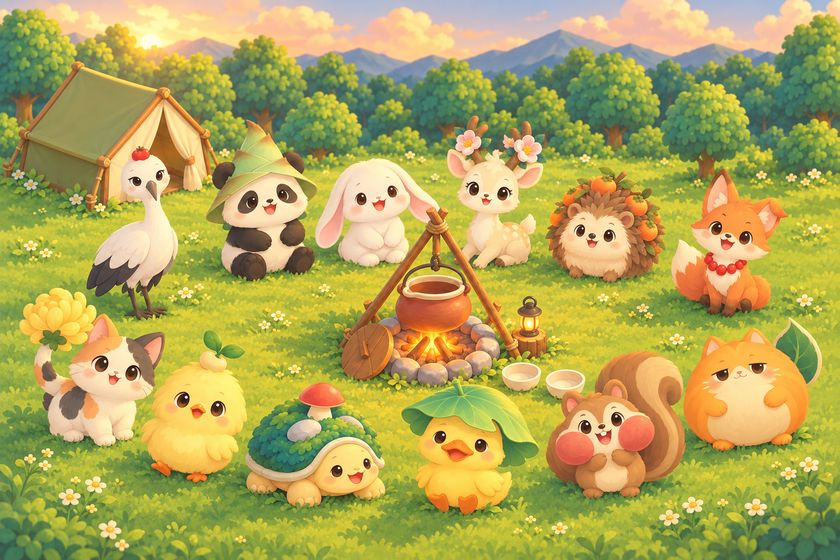
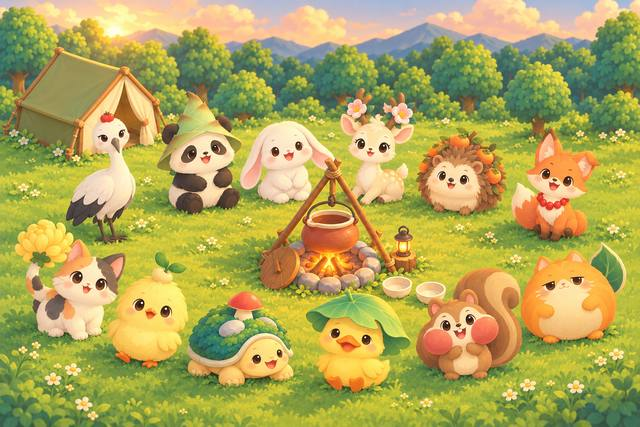
Slim the package: smaller fallback backdrops, drop unused effect images, size budget
The main package measured 1836KB of WeChat's 2048KB. Now 1498KB (550KB spare):
- the three whole-world fallback backdrops go from 768 to 576 wide (they only
  show until the cloud tiles arrive), the fire-off patches follow
- family portrait 840 -> 640 wide
- eight effect images nobody referenced are removed
- generator scripts write the new sizes, so regenerating art keeps them small
- preview / upload print the size WeChat measured and warn under 400KB spare
- the size test budgets 1.8MB of raw files, and a new test catches unused UI art

Claude-Session: https://claude.ai/code/session_01CX9A8LkVQKcNnTEsxo35Fv

diff --git a/scripts/wechat.js b/scripts/wechat.js
@@ -206,11 +206,29 @@ async function main() {
 
   const setting = { es6: true, enhance: true, minify: true, minifyWXSS: true, minifyWXML: true }
 
+  // 微信算的包有多大（主包和每个分包各不能超过 2MB）：预览、上传完都报一下，离上限多远心里有数
+  const LIMIT = 2 * 1024 * 1024
+const WARN = 400 * 1024
+  const kb = (n) => `${(n / 1024).toFixed(0)}KB`
+  // 微信算的包大小（压缩过的，比文件加起来小一截）。没有分包时只有 __FULL__，它就是主包
+  const reportSize = (res) => {
+    const list = (res && res.subPackageInfo) || []
+    if (!list.length) return
+    const split = list.some((p) => p.name === '__APP__')
+    const name = (n) => (n === '__APP__' ? '主包' : n === '__FULL__' ? (split ? '整个小程序' : '主包（没有分包）') : `分包 ${n}`)
+    list.forEach((p) => {
+      const left = LIMIT - p.size
+      const limited = p.name !== '__FULL__' || !split
+      const note = limited ? `，离 2MB 上限还有 ${kb(left)}${left < WARN ? `  ⚠ 余量不到 ${kb(WARN)}，该瘦身了` : ''}` : ''
+      console.log(`  ${name(p.name)}：${kb(p.size)}${note}`)
+    })
+  }
+
   if (command === 'preview') {
     fs.mkdirSync(OUT_DIR, { recursive: true })
     const dest = path.join(OUT_DIR, 'preview-qrcode.jpg')
     const [pagePath, searchQuery] = args
-    await ci.preview({
+    const res = await ci.preview({
       project,
       desc: lastCommitSubject() || 'preview',
       setting,
@@ -221,13 +239,15 @@ async function main() {
       ...(searchQuery ? { searchQuery } : {}),
     })
     console.log(`✓ 预览二维码已生成：${dest}${pagePath ? `（打开到 ${pagePath}${searchQuery ? `?${searchQuery}` : ''}）` : ''}`)
+    reportSize(res)
     return
   }
 
   const version = args[0] || require(path.join(ROOT, 'package.json')).version
   const desc = args[1] || lastCommitSubject() || `v${version}`
-  await ci.upload({ project, version, desc, setting, robot: ROBOT })
+  const res = await ci.upload({ project, version, desc, setting, robot: ROBOT })
   console.log(`✓ 已上传开发版本 ${version}（ci 机器人 ${ROBOT}）：${desc}`)
+  reportSize(res)
   console.log('  第一次上传后，到小程序后台「版本管理」把它选为体验版')
 }
 

diff --git a/scripts/camp/fire_off.py b/scripts/camp/fire_off.py
@@ -11,7 +11,7 @@
 输出：
     art/cut/fire-off.jpg、night-fire-off.jpg       盖在底图上的补丁，随 npm run wx:art -- cut 上传。框外圈和原画一模一样、框落在底图切块的像素格上，
                                                    所以存成不透明的 JPG 盖上去也没有接缝（和篝火逐帧图一样）；框的位置填进 shared/camp.js 的 SCENE.flame.off
-    miniprogram/images/camp/cut/fire-off.jpg …      包里的兜底小图（和包里垫的整张低清画一样 768 宽的分辨率）
+    miniprogram/images/camp/cut/fire-off.jpg …      包里的兜底小图（和包里垫的整张低清画一样 576 宽的分辨率）
 别的脚本要熄了火的整张画就调 unlit_day() / unlit_night()：cutouts.py 出空锅 pot-0 和夜里的 night-lid-off，
 light_map.py 出熄了火时宠物身上的光。
 画换了：重新量 LOGS（--preview 会把量的木柴框画在画上对），这几个脚本都重跑。
@@ -37,7 +37,7 @@ OUT = os.path.join(REPO, 'art', 'cut')
 LOCAL = os.path.join(REPO, 'miniprogram', 'images', 'camp', 'cut')
 DAY_RES = 0.75          # 和日景底图切块一样（3072 宽）
 NIGHT_RES = 0.5         # 和夜景底图切块一样（2048 宽）
-LOCAL_RES = 0.1875      # 包里的兜底小图：和包里垫的整张低清画（768 宽）一样
+LOCAL_RES = 0.140625    # 包里的兜底小图：和包里垫的整张低清画（576 宽）一样
 
 # 火堆里的木柴（画的像素）：(柴头 x, y, 里头那端 x, y, 柴头半径, 里头半径)，从后往前排（后面的先画）
 LOGS = {
@@ -390,7 +390,7 @@ def patches(preview=None):
         path = os.path.join(OUT, f'{name}.jpg')
         piece.save(path, quality=90)
         small = piece.resize((round(piece.width * LOCAL_RES / res), round(piece.height * LOCAL_RES / res)), Image.LANCZOS)
-        small.save(os.path.join(LOCAL, f'{name}.jpg'), quality=82)
+        small.save(os.path.join(LOCAL, f'{name}.jpg'), quality=64, optimize=True)
         print(f'  ✓  {name}.jpg  {piece.width}×{piece.height}  {os.path.getsize(path) // 1024} KB（包里 {os.path.getsize(os.path.join(LOCAL, name + ".jpg")) // 1024} KB）')
     print('补丁的框（画的像素）→ shared/camp.js 的 SCENE.flame.off：', json.dumps({'day': boxes['fire-off'], 'night': boxes['night-fire-off']}))
     if preview:

diff --git a/scripts/camp/extend_art.py b/scripts/camp/extend_art.py
@@ -12,7 +12,7 @@
         长出圆鼓鼓的云顶；高处再飘几朵云；夜里是深蓝、几颗画上那种四角小星
 输出：
     art/camp/u{行}{列}.jpg、d{行}{列}.jpg（+ night-）   天空两行、草地两行，每行 4 块，和底图切块一起 npm run wx:art 传云存储（campArt）
-    miniprogram/images/camp/base/world.jpg、night-world.jpg   包里垫的整个世界（768 宽）：一打开就有，高清块下完盖在上面
+    miniprogram/images/camp/base/world.jpg、night-world.jpg   包里垫的整个世界（576 宽）：一打开就有，高清块下完盖在上面
 画换了重跑（在 cut_art.py 之后）。Codex 按工单第 1e 节画了天空（art/raw/camp/out-sky.png、out-night-sky.png）就用它的上半张当天空，
 紧挨着画顶那一小段还是从画顶一行接过来（接得上）。需要 Pillow 和 numpy。
 """
@@ -30,7 +30,7 @@ RAW = os.path.join(REPO, 'art', 'raw', 'camp')
 OUT = os.path.join(REPO, 'art', 'camp')
 LOCAL = os.path.join(REPO, 'miniprogram', 'images', 'camp', 'base')
 RES = {'': 0.75, 'night-': 0.5}   # 和底图切块一样：日景 3072 宽、夜景 2048 宽
-LOCAL_RES = 0.1875                # 包里垫的整个世界：768 宽
+LOCAL_RES = 0.140625              # 包里垫的整个世界：576 宽（只在高清块下完之前垫一下，别再调大：主包只有 2MB）
 TILE = 1024                       # 一块（画的像素）
 HAZE = 100                        # 画最下面发虚的那段：接缝要在它上面（草地从画里面 SCENE.frame.overlap 处盖上去）
 PATCH = 256                       # 草地小块（画的像素）
@@ -361,7 +361,7 @@ def build(preview=None):
         tiles(world, pfx, res, F, H)
         lo = Image.fromarray(np.uint8(np.clip(world, 0, 255))).resize((round(W * LOCAL_RES), round((H + F['top'] + F['bottom']) * LOCAL_RES)), Image.LANCZOS)
         path = os.path.join(LOCAL, f'{pfx}world.jpg')
-        lo.save(path, quality=74, optimize=True, progressive=True)
+        lo.save(path, quality=62, optimize=True, progressive=True)
         print(f'  ✓  包里垫的整个世界 {pfx}world.jpg {lo.width}×{lo.height}  {os.path.getsize(path) // 1024} KB')
     if preview:
         os.makedirs(preview, exist_ok=True)

diff --git a/scripts/camp/lit_night.py b/scripts/camp/lit_night.py
@@ -10,7 +10,7 @@
 整个世界一起做（天空 + 画 + 下面补的草地），从已经切好的日景、夜景块（art/camp/*.jpg，cut_art.py + extend_art.py 出的）拼回来算，
 所以先跑那两个。输出：
     art/camp/lit-t*.jpg（画，16 块）、lit-d*.jpg（下面的草地，8 块），和夜景同分辨率；天空和夜景一样，不另出
-    miniprogram/images/camp/base/lit-world.jpg   包里垫的整个世界（768 宽）
+    miniprogram/images/camp/base/lit-world.jpg   包里垫的整个世界（576 宽）
     art/lit/painting.png                           点火版的画（夜景分辨率），cutouts.py 从它抠点火版的帐篷 / 木盖 / 提灯
 接着：cutouts.py --from-base --local（会出 lit- 那套抠图）、cutouts.py --local、cutouts.py --local --night、light_map.py，
 ART_VERSION.base / cut 加一，npm run wx:art -- base cut。需要 Pillow 和 numpy。
@@ -29,7 +29,7 @@ LIT = os.path.join(REPO, 'art', 'lit')
 LOCAL = os.path.join(REPO, 'miniprogram', 'images', 'camp', 'base')
 RES = {'': 0.75, 'night-': 0.5}   # 日景块 3072 宽、夜景块 2048 宽（cut_art.py / extend_art.py）
 TILE = 1024
-LOCAL_RES = 0.1875
+LOCAL_RES = 0.140625    # 和 extend_art.py 一样：576 宽
 GLOW = (0, -120)                   # 光心：篝火往上一点（火苗和锅底）
 R, FLOOR, PEAK = 2200, 0.12, 0.92
 FLAT = 0.62
@@ -113,7 +113,7 @@ def main():
     print(f'  ✓  点火版的画 → art/lit/painting.png {painting.width}×{painting.height}')
     lo = img.resize((round(S['W'] * LOCAL_RES), round(img.height / res * LOCAL_RES)), Image.LANCZOS)
     path = os.path.join(LOCAL, 'lit-world.jpg')
-    lo.save(path, quality=74, optimize=True, progressive=True)
+    lo.save(path, quality=62, optimize=True, progressive=True)
     print(f'  ✓  包里垫的整个世界 lit-world.jpg {lo.width}×{lo.height}  {os.path.getsize(path) // 1024} KB')
     if a.preview:
         os.makedirs(a.preview, exist_ok=True)

diff --git a/scripts/camp/pet_art.py b/scripts/camp/pet_art.py
@@ -17,7 +17,7 @@ RAW = os.path.join(REPO, 'art', 'raw', 'pets')
 OUT = os.path.join(REPO, 'miniprogram', 'images', 'camp', 'pets')
 FAMILY = os.path.join(REPO, 'art', 'raw', 'camp', 'family.png')
 PET_PX, FACE_PX = 320, 96
-FAMILY_W = 840      # 图册一页约 620rpx 宽，3 倍屏够清楚
+FAMILY_W = 640      # 图册一页约 620rpx 宽（2 倍屏正好；主包只有 2MB，别再调大）
 MARGIN = 0.04       # 人物四周留的空（边长的比例）
 
 
@@ -61,7 +61,7 @@ def main():
         img = Image.open(FAMILY).convert('RGB')
         img = img.resize((FAMILY_W, round(img.height * FAMILY_W / img.width)), Image.LANCZOS)
         path = os.path.join(OUT, '..', 'family.jpg')
-        img.save(path, quality=80, optimize=True, progressive=True)
+        img.save(path, quality=72, optimize=True, progressive=True)
         print(f'  ✓  全家福 family.jpg {img.width}×{img.height} {os.path.getsize(path) // 1024} KB')
 
 

diff --git a/scripts/camp/cut_art.py b/scripts/camp/cut_art.py
@@ -4,7 +4,7 @@
     python3 scripts/camp/cut_art.py art/raw/camp/night-hd.png --prefix night-     # 夜景：同样切 16 块，文件名 night-t00.jpg…
 
 输出到 art/camp/t00.jpg … t33.jpg（npm run wx:art 上传到 camp/base/）；画必须是正方形（和 shared/camp.js 的 W×H 一致），不是就按宽度缩放后上下居中裁 / 补边。
-切完接着跑 scripts/camp/extend_art.py：画的上下补天空和草地（高清块 u*/d*），并把整个世界缩成 768 宽写进包里
+切完接着跑 scripts/camp/extend_art.py：画的上下补天空和草地（高清块 u*/d*），并把整个世界缩成 576 宽写进包里
 miniprogram/images/camp/base/world.jpg（夜景 night-world.jpg）当垫图——页面先垫这张，高清块盖在上面。
 """
 import argparse

diff --git a/docs/art/camp-art-pack.md b/docs/art/camp-art-pack.md
@@ -635,10 +635,10 @@ in this order: … Cells 34–36 empty.
 - 营地：`cut_art.py art/raw/camp/camp-hd.png` 切 16 块 → `extend_art.py`（上下补天空和草地的 16 块 + 包里垫的整个世界 `world.jpg`；Codex 画了 `out-sky.png` 就用它的天空）→ `npm run wx:art` 传云存储 → `config.campArt`
 - 抠图层：画换了就 `cutouts.py --from-base --local`（精确轮廓，日夜一起出，`--check 目录` 存品红底的检查图；`SEEDS` 是物件身上的几个点，画换了要重量）→ `fx_art.py` 重出篝火逐帧 → `light_map.py` 重算夜里的光 → `scripts/wechat.js` 的 `ART_VERSION.cut` 加一 → `npm run wx:art -- cut` → `config.cutArt`。Codex 画了锅里三态就 `cutouts.py --crop` 之后 `cutouts.py`（不带 `--from-base`，日夜各跑一次，夜里加 `--night`）只换 pot-1～3：锅身用精确轮廓，锅口往上的热气按「比原画白了多少」反推成半透明白烟（不连背后的草一起抠）
 - 没点火：画换了或 Codex 画了 `out-fire-off.png` / `out-night-fire-off.png` 就 `fire_off.py`（出两块补丁，打印的框填进 `SCENE.flame.off`；Codex 的 in / out 是裁的时候的框外扩成的正方形，裁的框记在 `art/raw/cut/fire-off.json`，脚本只取回框里那块），再跑上一条的 `cutouts.py --from-base --local`、`light_map.py`（空锅、夜里的木盖、熄火时的光都从熄了火的画上来）
-- 底图：`extend_art.py` 把整个世界（含上下补的）缩成 768 宽写进包里（`images/camp/base/world.jpg`、`night-world.jpg`）当垫图
+- 底图：`extend_art.py` 把整个世界（含上下补的）缩成 576 宽写进包里（`images/camp/base/world.jpg`、`night-world.jpg`）当垫图
 - 装饰：`decor_crop.py --ids …` 先出 in（`boxes.json` 合并着写，别的批裁过的框留着）→ Codex 出 out（它可能把 in 放大到 1024 再画，脚本按 in 实际的宽换算）→ `decor_patch.py --local` → `scripts/wechat.js` 的 `ART_VERSION.decor`（重新生成过就加一）→ `npm run wx:art -- decor` → `config.decorArt`。`decor_patch.py` 只取 Codex 画了的地方（它别处一个像素都没动），再把它在装饰脚下顺手画的那圈草皮去掉、只留比原来暗的影子（草皮 = 颜色在原来那块草地里、在装饰下半截、从外面连进来的；花坛里被石头围住的叶子不算），所以摆到哪儿都落在那儿的草上、夜里没有一圈白天的草；画得太小的放大到占块宽 55% 或块高 70%（`FILL`）。最后重写 `utils/decor-art.js`（有高清块的装饰），页面只对这些用云端的图，还没画的用包里的占位
 - 第 5 批的花草：`decor_patch.py --local --ids sunflowers,lavender,hydrangea,tulips,daisies,cosmos,roses,dandelions,clover,rapeseed,chrysanthemum,mint,poppies,bluebells,mushrooms`（换掉包里的占位小图，重写 `utils/decor-art.js`，有了高清块的花就自动进商店）→ `ART_VERSION.decor` 加一 → `npm run wx:art -- decor` → `config.decorArt`；录屏 `play` 看小动物闻花。Codex 画了金色秋千：`cp art/raw/decor/in-swing.png art/raw/decor/in-gold_swing.png`、`boxes.json` 里照抄 swing 那条成 gold_swing → `decor_patch.py --local --ids gold_swing` → `swing_parts.py --preview 目录`（看座位那层抠得干不干净，金色秋千形状变了就重量 `SEAT`）
-- 宠物：`pack_anim.py` 把 A、B（有 `<id>-c.png` 的连 C）各自对齐后上下拼成一只一张 `art/anim/<id>.png`（6 列 × 12 / 18 行，每格 160px；`utils/anim-sheets.js` 里有 C 的记 `c: true`），页面换动作、转身只挪行不换图→ `scripts/wechat.js` 的 `ART_VERSION.anim` 加一 → `npm run wx:art -- anim` → `config.animArt`；第 3 批回来录屏看往上 / 往下走、锅前面吃和坐转身时大小不跳；`scripts/camp/pet_art.py` 把图册插画缩成 320px 放 `images/camp/pets/<id>.png`、头像 96px 放 `<id>-face.png`（替换占位），全家福缩成 840 宽的 `images/camp/family.jpg`（12 只都到齐后图册的封面）
+- 宠物：`pack_anim.py` 把 A、B（有 `<id>-c.png` 的连 C）各自对齐后上下拼成一只一张 `art/anim/<id>.png`（6 列 × 12 / 18 行，每格 160px；`utils/anim-sheets.js` 里有 C 的记 `c: true`），页面换动作、转身只挪行不换图→ `scripts/wechat.js` 的 `ART_VERSION.anim` 加一 → `npm run wx:art -- anim` → `config.animArt`；第 3 批回来录屏看往上 / 往下走、锅前面吃和坐转身时大小不跳；`scripts/camp/pet_art.py` 把图册插画缩成 320px 放 `images/camp/pets/<id>.png`、头像 96px 放 `<id>-face.png`（替换占位），全家福缩成 640 宽的 `images/camp/family.jpg`（12 只都到齐后图册的封面）
 - 重画的走路（第 4 批）：`pack_anim.py` 看到 `art/raw/anim/<id>-walk.png` 就拿它换掉 A 张第 1 行（个头按原来那行缩放，打印倍数），其余照上一条；录屏 `facing` / `all-pets-phone` 逐帧看腿
 - 食物、界面：`slice-art.py`（`ui/foods.png` 6×6 → `images/camp/foods/<id>.png` 128px；`ui/camp-icons.png` → `images/garden/ui/` 的 campfire / book / shop / bag / gift / paw / camera，食盆和回家暂时没用上）
 - 每批接完 `npm test`、`node scripts/preview/record-camp.js` 录屏逐帧看（锅后面、木盖旁、提灯旁、帐篷门口、夜里的光）、`npm run wx:preview`
